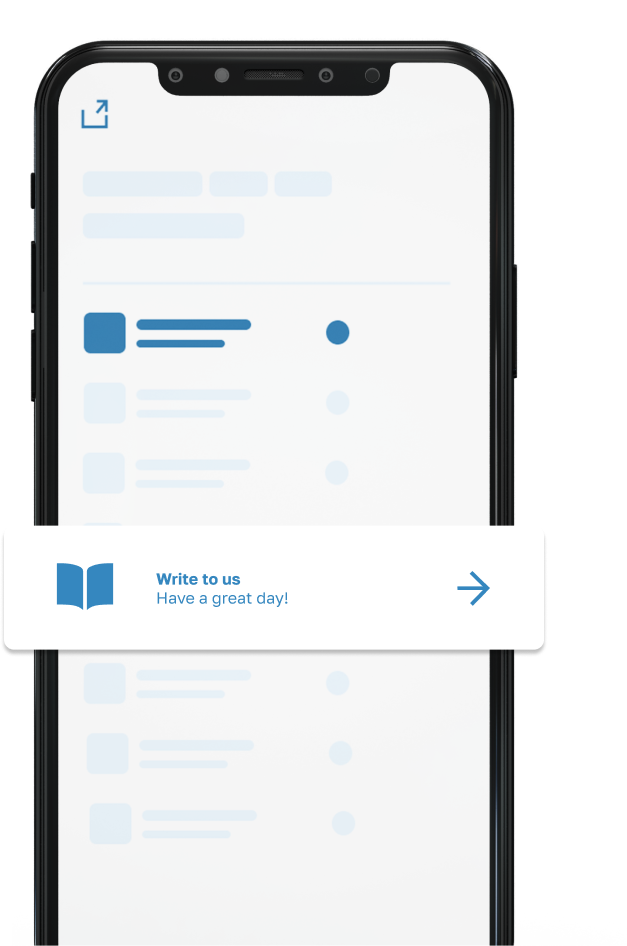
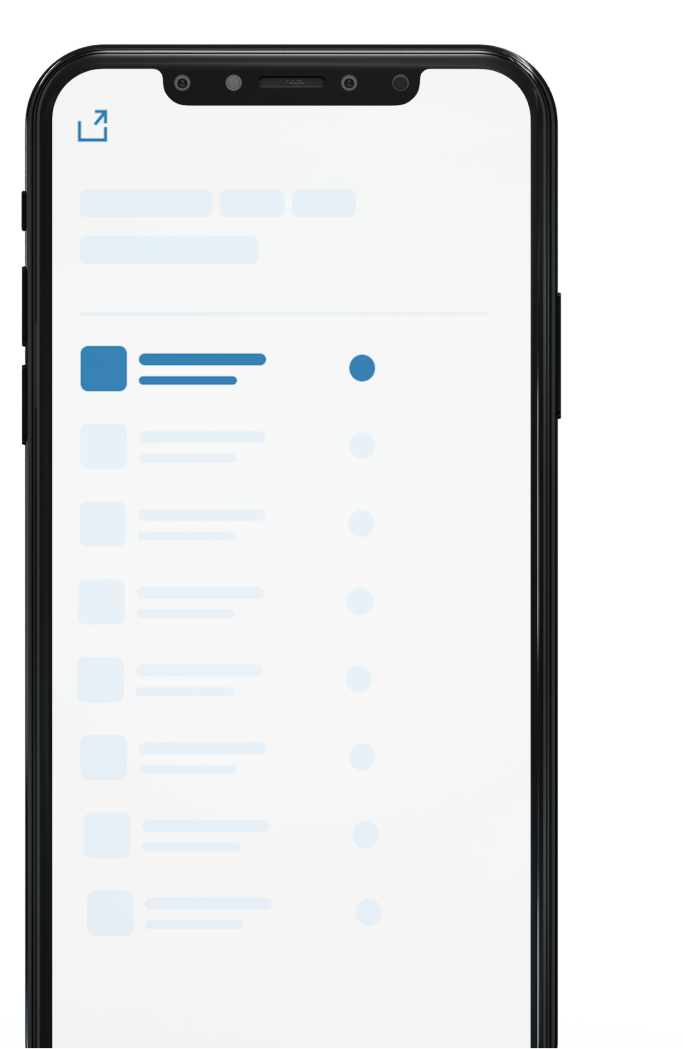
правки формы обратной связи

diff --git a/src/assets/styles/contact/contact_us.css b/src/assets/styles/contact/contact_us.css
@@ -12,18 +12,16 @@
 
 .contact__phone {
     max-height: 781px;
+    position: relative;
+    top: -122px;
 }
 
 .contact__form {
+    padding: 75px 0;
     display: flex;
     flex-direction: column;
     justify-content: center;
     max-width: 571px;
-}
-
-.contact__phone-img {
-    position: relative;
-    top: -164px;
 }
 
 .contact__title {
